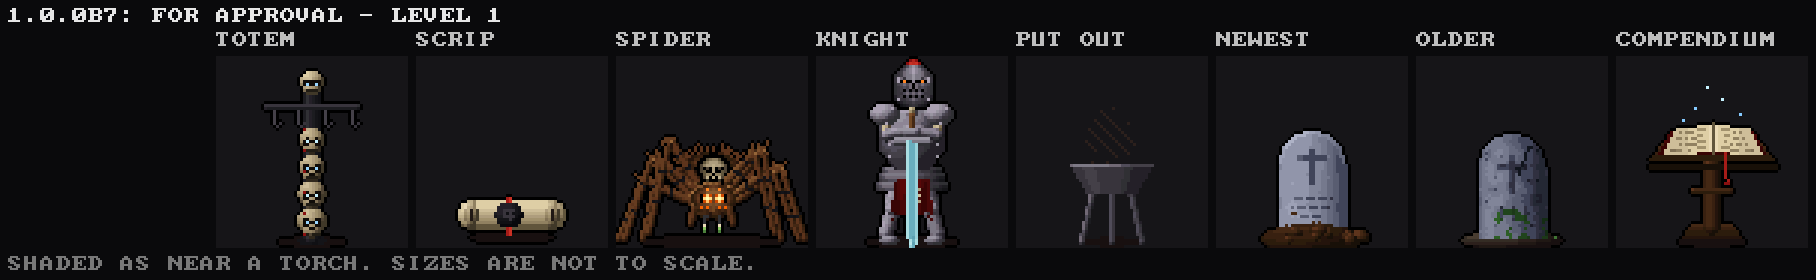
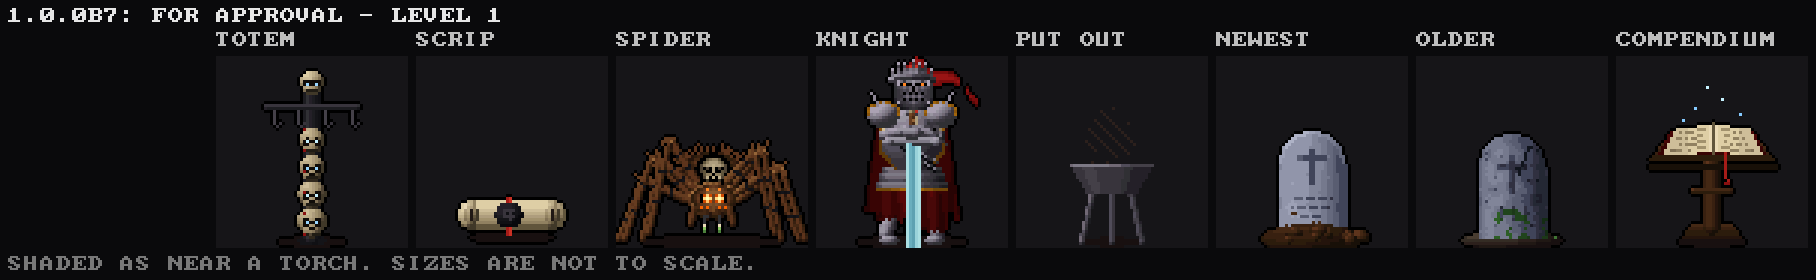
Art pass: the Ill-Fated Knight, a fallen paladin
The owner chose the four bosses' looks (recorded in the plan), and the
knight comes first, with sprites of its own at the end of the list: a
crown of iron spikes about its great helm and a torn crimson plume; the
Order's cross inlaid in bone on the breastplate, its edges once gilt;
chains wound across the plate; a ragged crimson cloak and a long surcoat,
split and torn; spiked pauldrons; a greatsword with a ruby in its pommel.
Shedding plate bares the skeleton, and the helm comes off last: the
crowned skull with a light in its sockets.

For frames, CRAWL_STAGEBOSS=b (stage.py --boss) stands creatures down a
hall drawn as that boss, as in its fight.

Art only: a dream run's events are unchanged; ASan clean.

Claude-Session: https://claude.ai/code/session_015ifzKucNXU48yoPLrSFXC9

Changed region(s): [[0.4626, 0.2, 0.5551, 0.8286], [0.4934, 0.8571, 0.5242, 0.8857]]

diff --git a/src/crawl_art.c b/src/crawl_art.c
@@ -5144,6 +5144,159 @@ static void deacon_dress(int id) {
     }
 }
 
+/* a crown of iron spikes on a band round a brow at (cx, y), hw wide either side; broken: a spike or two snapped */
+static void iron_crown(float cx, float y, float hw, int broken) {
+    for (int x = (int)(cx - hw); x <= (int)(cx + hw); x++) {
+        float u = (x + 0.5f - cx) / hw, by = y + u * u * 1.5f;      /* the band, curving back round the head */
+        cv_px(x, (int)by, sh(R_IRON, 0.62f - 0.3f * u)); cv_px(x, (int)by + 1, sh(R_IRON, 0.3f - 0.12f * u));
+    }
+    for (int k = 0; k < 7; k++) {
+        float u = (k - 3) / 3.0f, x = cx + u * (hw - 1.0f), by = y + u * u * 1.5f;
+        int h = (int)(4.5f - fabsf(u) * 2.0f) - (broken && (k == 1 || k == 5) ? 2 : 0);
+        for (int j = 1; j <= h; j++) cv_px((int)x, (int)by - j, sh(R_IRON, 0.8f - 0.08f * j - 0.2f * (u > 0)));
+        if (h > 0) cv_px((int)x, (int)by - h - 1, sh(R_IRON, 0.95f));   /* its point catching the light */
+    }
+}
+
+/* the greatsword: a long blade with a fuller and a bright edge, a broad guard, a ruby in the pommel */
+static void greatsword(float gx, float gy, float a) {
+    float dx = cosf(a), dy = sinf(a), px = -dy, py = dx;
+    cv_ellipse(gx - dx * 7.0f, gy - dy * 7.0f, 2.2f, 2.2f, R_IRON, 0.4f, 1.0f);   /* pommel, and its ruby */
+    cv_px((int)(gx - dx * 7.0f), (int)(gy - dy * 7.0f), (uint8_t)(R_BLOOD + 13)); cv_px((int)(gx - dx * 7.0f - px), (int)(gy - dy * 7.0f - py), (uint8_t)(R_BLOOD + 10));
+    cv_capsule(gx - dx * 5.0f, gy - dy * 5.0f, gx + dx * 3.0f, gy + dy * 3.0f, 1.3f, R_WOOD, 0.2f, 0.55f);   /* the grip, bound */
+    for (int k = -2; k <= 2; k++) cv_px((int)(gx + dx * k * 1.6f), (int)(gy + dy * k * 1.6f), sh(R_WOOD, 0.75f));
+    cv_capsule(gx + dx * 3.6f - px * 8.0f, gy + dy * 3.6f - py * 8.0f, gx + dx * 3.6f + px * 8.0f, gy + dy * 3.6f + py * 8.0f, 1.2f, R_IRON, 0.35f, 0.95f);
+    cv_ellipse(gx + dx * 3.6f - px * 8.0f, gy + dy * 3.6f - py * 8.0f, 1.6f, 1.6f, R_IRON, 0.5f, 1.0f);   /* the guard's ends */
+    cv_ellipse(gx + dx * 3.6f + px * 8.0f, gy + dy * 3.6f + py * 8.0f, 1.6f, 1.6f, R_IRON, 0.5f, 1.0f);
+    for (int i = 5; i < 50; i++) {                                  /* the blade */
+        float t = (float)i, wdt = i > 43 ? (50 - i) * 0.33f : 2.2f;
+        for (float o = -wdt; o <= wdt; o += 0.5f) {
+            float v = 0.55f + 0.4f * (o / (wdt + 0.01f)) * -0.5f + (fabsf(o) < 0.5f ? -0.18f : 0.0f) + (o > wdt - 0.6f ? 0.35f : 0.0f);
+            cv_px((int)(gx + dx * t + px * o), (int)(gy + dy * t + py * o), sh(R_GHOST, v));
+        }
+    }
+}
+
+/* The Ill-Fated Knight's own (docs/InitialArtPass.md, part three; the owner chose a fallen paladin): the Order's
+ * champion gone to bone in its plate. A tall crested great helm under a crown of iron spikes, a torn crimson plume
+ * streaming from the crest; the Order's cross inlaid on the breastplate, its edges once gilt; chains wound round the
+ * plate; a ragged crimson cloak behind and a long surcoat below, split and torn; a greatsword with a ruby in its pommel.
+ * Shedding plate bares the skeleton, and the helm comes off last, the crown still on the skull and a light in its
+ * sockets. pose 0-1 walking, 2 the wind-up, 3 the blow, 4 planted; state 0 full plate, 1 half, 2 the helm gone. */
+static void spr_bknight(int id, float w, int pose, int state) {
+    cv_begin(cv_sprite, TS, TS);
+    float gx, gy, ga;
+    if (pose == 2) { gx = 41; gy = 11; ga = -2.9f; }
+    else if (pose == 3) { gx = 27; gy = 40; ga = 2.55f; }
+    else if (pose == 4) { gx = 32; gy = 25; ga = 1.5708f; }
+    else { gx = 37; gy = 34; ga = -1.05f; }
+    cv_flat(32, 62, 18, 2.2f, R_WARM + 1);
+    for (int y = 17; y < 61; y++) {                                  /* the cloak, behind it all, ragged */
+        float t = (y - 17) / 43.0f, hw = 10.5f + 6.0f * t;
+        for (int x = (int)(32 - hw); x <= (int)(32 + hw); x++) {
+            float dx = x + 0.5f - 32.0f;
+            float hem = 50.0f + 6.0f * h01((int)(dx + 40) / 2, 1, 601) - (state == 2 ? 8.0f : 0.0f);
+            if (y > hem) continue;
+            float v = 0.1f + 0.14f * (1.0f - fabsf(dx) / hw) + (sinf(dx * 0.9f + y * 0.05f) > 0.7f ? -0.06f : 0.0f);
+            cv_px(x, y, sh(R_BLOOD, v));
+        }
+    }
+    if (pose == 2) greatsword(gx, gy, ga);
+    for (int s = -1; s <= 1; s += 2) {                               /* legs: bone, and plate unless hacked away */
+        float k = s * w, hx = 32 + s * 4.0f, kx = 32 + s * 5.0f - k * 2.5f, fx = 32 + s * 5.5f - k * 4.0f;
+        if (pose == 3 || pose == 4) { kx += s * 1.5f; fx += s * 3.0f; }
+        cv_bone(hx, 41, kx, 51, 1.6f, 0.25f, 0.95f);
+        cv_bone(kx, 51, fx, 60, 1.4f, 0.25f, 0.9f);
+        if (state < 1 || (state < 2 && s > 0)) plate(hx, 42, kx, 50, 3.1f, 0.0f);
+        if (state < 2) { plate(kx, 52, fx, 59, 2.7f, 0.0f); cv_ellipse(kx, 51, 2.8f, 2.4f, R_IRON, 0.4f, 1.0f); cv_px((int)kx, 50, (uint8_t)(R_GOLD + 6)); }   /* poleyn, gilt */
+        if (state < 2) cv_ellipse(fx - s * 1.0f, 61.5f, 3.8f, 1.6f, R_IRON, 0.3f, 0.9f);
+        else cv_capsule(fx, 61.5f, fx - s * 3.5f, 62, 1.0f, R_BONE, 0.3f, 0.8f);
+    }
+    for (int s = -1; s <= 1; s += 2) {                               /* the surcoat below the plate, split before, torn */
+        for (int y = 40; y < 59; y++) {
+            float x0 = 32 + s * 1.0f, x1 = 32 + s * (9.5f + (y - 40) * 0.12f);
+            float hem = 57.0f - 5.0f * h01((int)(y > 0) + (int)fabsf(x1), 3, 603);
+            if (state == 1 && s < 0) hem = 46.0f;                    /* hacked short on the bared side */
+            if (state == 2) hem = 44.0f + 3.0f * (s > 0);
+            for (int x = (int)fminf(x0, x1); x <= (int)fmaxf(x0, x1); x++) {
+                float h = hem + 3.0f * h01(x, 7, 605);
+                if (y > h) continue;
+                float u = fabsf(x + 0.5f - 32.0f) / 10.0f, fold = sinf((x - 32) * 1.1f + s) * 0.06f;
+                cv_px(x, y, sh(R_BLOOD, 0.24f + fold - u * 0.06f - (y - 40) * 0.004f));
+            }
+        }
+    }
+    cv_capsule(32, 18, 32, 40, 1.4f, R_BONE, 0.3f, 0.9f);           /* spine and ribs, where the plate is gone */
+    for (int i = 0; i < 4; i++) {
+        float y = 21 + i * 3.6f;
+        cv_capsule(31, y, 25 + i * 0.6f, y + 2, 0.9f, R_BONE, 0.25f, 0.9f); cv_capsule(33, y, 39 - i * 0.6f, y + 2, 0.9f, R_BONE, 0.25f, 0.9f);
+    }
+    if (state < 2)                                                   /* the fauld, its lowest band gilt */
+        for (int b = 0; b < 3; b++) {
+            float y = 37 + b * 2.6f, hw = 9.5f + b * 0.8f;
+            for (int x = (int)(32 - hw); x <= (int)(32 + hw); x++) {
+                if (state == 1 && x < 28 && b > 0) continue;
+                float nx = (x + 0.5f - 32) / hw;
+                for (int yy = 0; yy < 3; yy++) cv_px(x, (int)y + yy, yy == 2 && b == 2 ? (uint8_t)(R_GOLD + 4 + (int)(3.0f * (1.0f - fabsf(nx)))) : sh(R_IRON, 0.3f + 0.5f * lit(nx, -0.2f, sqrtf(fmaxf(0, 1 - nx * nx))) - yy * 0.08f));
+            }
+        }
+    for (int y = 18; y <= 37; y++) {                                 /* the breastplate: a ridge, the Order's cross, gilt edges */
+        float hw = 9.5f + 1.5f * sinf((y - 18) / 19.0f * PI_F) - (y > 31 ? (y - 31) * 0.6f : 0.0f);
+        for (int x = (int)(32 - hw); x <= (int)(32 + hw); x++) {
+            float nx = (x + 0.5f - 32) / hw;
+            if (state == 2 && (x < 30 - (y - 18) * 0.15f || y > 32)) continue;
+            float v = 0.25f + 0.62f * lit(nx, (y - 26) / 14.0f, sqrtf(fmaxf(0.0f, 1.0f - nx * nx)));
+            if (fabsf(x + 0.5f - 32) < 0.8f) v += 0.25f;
+            if (state >= 1 && h01(x / 2, y / 2, 607) > 0.86f) v -= 0.3f;
+            uint8_t c = sh(R_IRON, v);
+            if (fabsf(fabsf(x + 0.5f - 32) - hw) < 1.0f) c = (uint8_t)(R_GOLD + 3 + (int)(4.0f * (1.0f - fabsf(nx)) + 2.0f * (y < 26)));   /* the gilt, worn */
+            int cross = (abs(x - 32) <= 1 && y >= 20 && y <= 34) || (y >= 24 && y <= 25 && abs(x - 32) <= 5);
+            if (cross && !(state == 2 && x < 31)) c = abs(x - 32) == 0 || y == 24 ? sh(R_BONE, 0.85f) : sh(R_BONE, 0.6f);
+            cv_px(x, y, c);
+        }
+    }
+    if (state == 2) { cv_line(30, 19, 33, 33, sh(R_IRON, 0.05f)); cv_line(34, 22, 37, 30, sh(R_IRON, 0.05f)); }   /* cracked through */
+    if (state < 2)                                                   /* chains wound about it, their shadow on the plate */
+        for (int c = 0; c < 2; c++) {
+            float y0 = c ? 25.0f : 21.0f, y1 = c ? 37.0f : 35.0f, sg = c ? 1.5f : 2.0f;
+            for (int i = 0; i <= 22; i++) { float t = i / 22.0f; cv_px((int)(24.5f + c + 15.0f * t - c), (int)(y0 + (y1 - y0) * t + sg * 4.0f * t * (1.0f - t)) + 1, sh(R_IRON, 0.02f)); }
+            kit_chain(24.0f + c, y0, 40.0f - c, y1, sg, R_IRON);
+        }
+    for (int s = -1; s <= 1; s += 2) {                               /* arms: both hands on the grip */
+        float sx = 32 + s * 9.5f, sy = 20;
+        float ex = (sx + gx) * 0.5f + s * 4.0f, ey = (sy + gy) * 0.5f + 4.0f;
+        if (pose == 2) { ex = (sx + gx) * 0.5f + s * 3.0f; ey = (sy + gy) * 0.5f + 3.0f; }
+        cv_bone(sx, sy, ex, ey, 1.3f, 0.25f, 0.9f);
+        cv_bone(ex, ey, gx + s * 1.0f, gy, 1.1f, 0.25f, 0.9f);
+        int keep = state == 0 || s > 0;
+        if (keep) {                                                  /* a great pauldron, its rim gilt, a spike */
+            cv_ellipse(sx, sy - 0.5f, 5.6f, 4.4f, R_IRON, 0.3f, 1.0f);
+            for (int a = 0; a < 14; a++) { float an = PI_F + a * PI_F / 13.0f; cv_px((int)(sx + cosf(an) * 5.4f), (int)(sy - 0.5f + sinf(an) * 4.2f), (uint8_t)(R_GOLD + 5 + (a & 1))); }
+            cv_line(sx + s * 2.0f, sy - 4.0f, sx + s * 4.0f, sy - 8.0f, sh(R_IRON, 0.8f));
+        }
+        if (state < 2 && (state == 0 || s > 0)) plate(ex, ey, gx + s * 1.0f, gy, 2.1f, 0.05f);   /* vambrace */
+        if (s > 0 && state < 2) kit_chain(ex - 1.0f, ey - 2.0f, ex + 3.0f, ey + 3.0f, 0.5f, R_IRON);   /* a chain about the forearm */
+    }
+    if (pose != 2) greatsword(gx, gy, ga);
+    for (int s = -1; s <= 1; s += 2) cv_ellipse(gx + s * 1.2f, gy + 0.5f, 2.3f, 2.1f, state < 2 ? R_IRON : R_BONE, 0.3f, 0.9f);   /* gauntlets, or bone */
+    cv_capsule(32, 15, 32, 18, 1.2f, R_BONE, 0.3f, 0.9f);
+    if (state < 2) {                                                 /* the plume, torn, streaming from the crest; the helm; its crown */
+        for (int k = 0; k < 30; k++) {
+            float t = k / 29.0f, px = 33.0f + t * 20.0f, py = 2.0f + t * 12.0f + sinf(t * 7.0f) * 2.0f, wdt = 2.8f - t * 1.8f;
+            if (k > 18 && h01(k, 1, 609) < 0.4f) continue;           /* torn at its end */
+            for (float o = -wdt; o <= wdt; o += 0.5f) cv_px((int)px, (int)(py + o), sh(R_BLOOD, 0.35f + 0.25f * (1.0f - fabsf(o) / (wdt + 0.01f)) - t * 0.15f));
+        }
+        grid_stamp(KNIGHT_HELM, 15, 16, 25, 2, R_IRON, R_BLOOD, (uint8_t)(R_FLAME + 9), 0);
+        iron_crown(32, 6, 7.5f, state == 1);
+    } else {                                                         /* the helm gone: the crowned skull, a light in it */
+        skull_stamp(32, 10, 0, 0, (uint8_t)(R_FLAME + 12));
+        iron_crown(32, 4, 7.0f, 1);
+    }
+    cv_bone_decay(611);
+    cv_outline(0);
+    cv_store(id);
+}
+
 /* the bestiary's bones age with the level, like the skeletons' */
 static void spr_bestiary_bones(void) {
     spr_hound(SP_HOUND_A, 1.0f, 0); spr_hound(SP_HOUND_B, -1.0f, 1); spr_hound(SP_HOUND_BITE, 0.0f, 2); spr_hound(SP_HOUND_D, 0.0f, 3);
@@ -5155,6 +5308,11 @@ static void spr_bestiary_bones(void) {
         spr_knight(SP_KNIGHT_P0 + st, 0.0f, 4, st);
     }
     spr_knight_dead(SP_KNIGHT_D);
+    for (int st = 0; st < 3; st++) {                                /* the Ill-Fated Knight's own */
+        int base = SP_BKNIGHT_A + st * 4;
+        spr_bknight(base, 1.0f, 0, st); spr_bknight(base + 1, -1.0f, 1, st); spr_bknight(base + 2, 0.0f, 2, st); spr_bknight(base + 3, 0.0f, 3, st);
+        spr_bknight(SP_BKNIGHT_P0 + st, 0.0f, 4, st);
+    }
     spr_deacon(SP_DEACON_A, 1.0f, 0); spr_deacon(SP_DEACON_B, -1.0f, 1); spr_deacon(SP_DEACON_CHANT, 0.0f, 2); spr_deacon(SP_DEACON_D, 0.0f, 3);
     deacon_dress(SP_DEACON_A); deacon_dress(SP_DEACON_B); deacon_dress(SP_DEACON_CHANT);
 }

diff --git a/src/scene_crawl.c b/src/scene_crawl.c
@@ -2795,7 +2795,8 @@ static void build_lightmap(void) {
 #ifdef CRAWL_DEBUG
 /* CRAWL_STAGE=k: one kind stood still down the longest straight hall, at set distances, the caster still and looking
  * at them; CRAWL_STAGEDARK=f scales the light (0 none), CRAWL_STAGEFOG=1 thickens the fog to its most, CRAWL_STAGESUB=s
- * puts them in that state, CRAWL_STAGEDIST=d just one at d cells. For frames of the art pass (docs/InitialArtPass.md). */
+ * puts them in that state, CRAWL_STAGEDIST=d just one at d cells, CRAWL_STAGEBOSS=b each drawn as that boss (BOSS_*, of its
+ * kind). For frames of the art pass (docs/InitialArtPass.md). */
 static int g_stage = -1, g_stage_fog;
 static float g_stage_lm = 1.0f;
 #endif
@@ -13228,6 +13229,7 @@ static void stage_set(int k) {                                     /* CRAWL_STAG
         if (k == MOB_GARGOYLE) m->sub = 2;
         if (k == MOB_HUNTER) m->sub = 2;
         if (getenv("CRAWL_STAGESUB")) m->sub = atoi(getenv("CRAWL_STAGESUB"));
+        if (getenv("CRAWL_STAGEBOSS")) m->boss = (uint8_t)(1 + atoi(getenv("CRAWL_STAGEBOSS")));   /* drawn as that boss, for its frames */
     }
     if (getenv("CRAWL_STAGEDARK")) g_stage_lm = (float)atof(getenv("CRAWL_STAGEDARK"));
     g_stage_fog = getenv("CRAWL_STAGEFOG") != NULL;
@@ -18432,9 +18434,9 @@ static int mob_sprite(const Mob *m, float *scale) {
         return m->sub == 3 ? SP_GHOUL_LEAP : (m->sub == 4 ? SP_GHOUL_FEED : (fr ? SP_GHOUL_B : SP_GHOUL_A));
     case MOB_KNIGHT: {
         if (m->state == MS_DIE) return SP_KNIGHT_D;
-        int base = SP_KNIGHT_A + knight_stage(m) * 4;
+        int base = (m->boss ? SP_BKNIGHT_A : SP_KNIGHT_A) + knight_stage(m) * 4;   /* the Ill-Fated Knight has its own */
         if (m->boss && G.bpose_t > 0.0f && G.bpose != BP_NONE && m->state == MS_WALK)   /* the Ill-Fated Knight casting */
-            return G.bpose == BP_PLANT ? SP_KNIGHT_P0 + knight_stage(m) : base + (G.bpose == BP_RAISE ? 2 : 3);
+            return G.bpose == BP_PLANT ? SP_BKNIGHT_P0 + knight_stage(m) : base + (G.bpose == BP_RAISE ? 2 : 3);
         return base + (m->swing > 0.0f ? 2 : (m->throw_t > 0.0f ? 3 : fr));
     }
     case MOB_BROOD:
@@ -18599,7 +18601,11 @@ static void render_sprites(Frame *f, float dx, float dy, float horizon) {
         if (n == n0) continue;
         Draw *d = &list[n - 1];
         d->scale = statue ? 1.0f : sc * RANK_SIZE[m->rank];       /* a statue like the others: its rank doesn't show yet */
-        if (m->boss) { d->scale *= BOSSES[m->boss - 1].scale; if (G.bstate != BS_FIGHT && m->state == MS_WALK) d->flags |= DR_EDGE; }   /* untouchable: a pale shell */
+        int waits = m->boss && G.bstate != BS_FIGHT && m->state == MS_WALK;   /* untouchable: a pale shell */
+#ifdef CRAWL_DEBUG
+        if (g_stage >= 0) waits = 0;                                /* a boss stood for its frames shows as in the fight */
+#endif
+        if (m->boss) { d->scale *= BOSSES[m->boss - 1].scale; if (waits) d->flags |= DR_EDGE; }
         if (m->small) d->scale *= 0.62f;
         if (m->rank != RK_I && KINDS[m->type].family >= 0 && !statue) d->lut = crawl_rank_lut[KINDS[m->type].family][m->rank];
         if (m->type == MOB_SPIDER && m->state == MS_WALK && m->sub == 0) d->flags = DR_EYES;
@@ -18607,7 +18613,7 @@ static void render_sprites(Frame *f, float dx, float dy, float horizon) {
         if (m->frozen > 0.0f && m->state == MS_WALK) d->flags |= DR_ICE;   /* only its eyes, in the dark of the web */
         if (G.ptheme == PT_BACKROOMS) d->flags |= DR_GLITCH;           /* nothing here is quite right */
         if (G.ptheme == PT_SEVERANCE) d->flags |= DR_LIT;              /* nor here: everything is too clean */
-        if (m->boss && G.bstate != BS_FIGHT && m->state == MS_WALK) d->flags |= DR_EDGE;
+        if (waits) d->flags |= DR_EDGE;
         if (m->boss == 1 + BOSS_KNIGHT && m->state == MS_WALK) {
             d->flags |= DR_SHINE;
             if (G.bdash_age < 0.8f) {                              /* Swift Dodge: where it was a moment ago, fading */

diff --git a/tools/sheet.c b/tools/sheet.c
@@ -57,6 +57,9 @@ static const Group GROUPS[] = {
     { "knight", "SKELETON KNIGHT (FROM LEVEL 13)", PF_ARMOUR, ALL_RANKS,
       { { SP_KNIGHT_A, "WALK" }, { SP_KNIGHT_W, "WIND-UP" }, { SP_KNIGHT_S, "STRIKE" }, { SP_KNIGHT2_A, "HALF PLATE" }, { SP_KNIGHT2_W, "WIND-UP" },
         { SP_KNIGHT3_A, "STRIPPED" }, { SP_KNIGHT3_S, "STRIKE" }, { SP_KNIGHT_D, "DEAD" }, { -1, 0 } } },
+    { "bknight", "THE ILL-FATED KNIGHT (THE BOSS OF LEVEL 10): FULL, HALF, HELM GONE", -1, 1,
+      { { SP_BKNIGHT_A, "WALK" }, { SP_BKNIGHT_W, "WIND-UP" }, { SP_BKNIGHT_S, "STRIKE" }, { SP_BKNIGHT_P0, "PLANTED" },
+        { SP_BKNIGHT2_A, "HALF" }, { SP_BKNIGHT2_W, "WIND-UP" }, { SP_BKNIGHT3_A, "HELM GONE" }, { SP_BKNIGHT3_S, "STRIKE" }, { SP_BKNIGHT_P2, "PLANTED" }, { -1, 0 } } },
     { "deacon", "DEACON (FROM LEVEL 18)", PF_ROBE, ALL_RANKS,
       { { SP_DEACON_A, "WALK A" }, { SP_DEACON_B, "WALK B" }, { SP_DEACON_CHANT, "RAISING" }, { SP_DEACON_D, "DEAD" }, { -1, 0 } } },
     { "hunter", "HUNTING SPIDER (FROM LEVEL 11)", PF_HIDE, ALL_RANKS,
@@ -98,7 +101,7 @@ static const Group GROUPS[] = {
     { "b6", "1.0.0B6: FOR APPROVAL", -1, 1,
       { { SP_DOUBLE, "BLINK'S DOUBLE" }, { -1, 0 } } },
     { "b7", "1.0.0B7: FOR APPROVAL", -1, 1,
-      { { SP_HEXTOTEM, "TOTEM" }, { SP_SCRIP, "SCRIP" }, { SP_BSPIDER_A, "SPIDER" }, { SP_KNIGHT_P0, "KNIGHT" },
+      { { SP_HEXTOTEM, "TOTEM" }, { SP_SCRIP, "SCRIP" }, { SP_BSPIDER_A, "SPIDER" }, { SP_BKNIGHT_P0, "KNIGHT" },
         { SP_BRAZIER_OUT, "PUT OUT" }, { SP_TOMB_FRESH, "NEWEST" }, { SP_TOMB_ROUND, "OLDER" }, { SP_LECTERN, "COMPENDIUM" }, { -1, 0 } } },
 };
 #define NGROUPS ((int)(sizeof GROUPS / sizeof GROUPS[0]))

diff --git a/tools/stage.py b/tools/stage.py
@@ -13,6 +13,7 @@ ap.add_argument("kind", type=int); ap.add_argument("out")
 ap.add_argument("--rank"); ap.add_argument("--level", default="5"); ap.add_argument("--seed", default="5")
 ap.add_argument("--dark"); ap.add_argument("--fog", action="store_true"); ap.add_argument("--sub")
 ap.add_argument("--dists", default="2.5,4,6,9,13,18"); ap.add_argument("--t", default="6")
+ap.add_argument("--boss")                                   # the BOSS_* number: drawn as that boss
 a = ap.parse_args()
 host = os.path.join(os.path.dirname(os.path.abspath(__file__)), "..", "build", "host_debug")
 frames = []
@@ -23,6 +24,7 @@ with tempfile.TemporaryDirectory() as d:
         if a.dark is not None: env["CRAWL_STAGEDARK"] = a.dark
         if a.fog: env["CRAWL_STAGEFOG"] = "1"
         if a.sub is not None: env["CRAWL_STAGESUB"] = a.sub
+        if a.boss is not None: env["CRAWL_STAGEBOSS"] = a.boss
         subprocess.run([host, "shot", "crawl", a.t, os.path.join(d, "f%d" % i), "2"], env=env, cwd=d,
                        stdout=subprocess.DEVNULL, stderr=subprocess.DEVNULL, check=True)
         name = [f for f in os.listdir(d) if f.startswith("f%d_" % i)][0]

diff --git a/src/crawl.h b/src/crawl.h
@@ -251,6 +251,11 @@ enum {
     SP_SHAMB_SA, SP_SHAMB_SB, SP_DROWN_SA, SP_DROWN_SB, SP_HOUND_SA, SP_HOUND_SB, SP_WRAITH_SA, SP_WRAITH_SB,
     SP_HUNTER_SA, SP_HUNTER_SB, SP_GHOUL_SA, SP_GHOUL_SB, SP_KNIGHT_SA, SP_KNIGHT_SB, SP_BROOD_SA, SP_BROOD_SB,
     SP_SHADE_SA, SP_SHADE_SB, SP_IMP_SA, SP_IMP_SB, SP_DEACON_SA, SP_DEACON_SB, SP_GARG_SA, SP_GARG_SB,
+    /* the bosses' own (docs/InitialArtPass.md, part three) */
+    SP_BKNIGHT_A, SP_BKNIGHT_B, SP_BKNIGHT_W, SP_BKNIGHT_S,     /* the Ill-Fated Knight, a fallen paladin: in full plate, */
+    SP_BKNIGHT2_A, SP_BKNIGHT2_B, SP_BKNIGHT2_W, SP_BKNIGHT2_S, /* ... half of it hacked off, */
+    SP_BKNIGHT3_A, SP_BKNIGHT3_B, SP_BKNIGHT3_W, SP_BKNIGHT3_S, /* ... the breastplate cracked and the helm gone */
+    SP_BKNIGHT_P0, SP_BKNIGHT_P1, SP_BKNIGHT_P2,                /* planting its sword, in each state */
     NSPR
 };
 

diff --git a/docs/InitialArtPass.md b/docs/InitialArtPass.md
@@ -21,7 +21,17 @@ follow are read in its light (the differences are in bold).
 - **A1** (b): every skull the game draws: the wall skull creature, the piles, heaps, totems, niches and the ossuary's
   bone walls.
 - **A2 (c): all four bosses get bespoke redraws in this pass**, not only the Deacon and the Wraith; their new art is
-  drawn after their kind's own (section 9).
+  drawn after their kind's own (section 9). Their looks, asked when part three began (31 October), each the recommended
+  one: **the Ill-Fated Knight a fallen paladin** (a tall crested great helm under a crown of iron spikes, a torn crimson
+  plume, a long tattered surcoat with the Order's cross, chains wound round its plate, a two-handed greatsword; shedding
+  plate bares the skeleton, and the helm comes off last to show its skull with a light in it); **the Wandering Spider an
+  old matriarch** (huge and grizzled: grey-white hair, a cluster of milky blind eyes round two great burning ones, a
+  scarred shell, spurred legs, torn web trailing with husks of prey in it, the skull on its back in raised bone); **the
+  Black Deacon a profane bishop** (towering, in black and crimson vestments with a tall mitre, a skull face lit green from
+  below, a crozier crowned with a skull and hung with chains, a censer swinging green smoke, its bone ward wheeling about
+  it); **the Wraith Unbound crowned and unchained** (a broken iron crown over its peaked hood, burst shackles with chains
+  trailing from its wrists, its cerements flaring wider into a storm of wisps, a second pair of long hands reaching from
+  inside its robe).
 - **A3** (a): no dressing by run in this pass; the kit and the table of points are built so it can come later.
 - **A4 (c): every creature is re-proportioned**, not only the Drowned, the imp and the gargoyle. The skeletons' bone
   work (the owner's "pretty good") is kept in spirit: limbs may lengthen and the stance change, but the bones are drawn
@@ -748,7 +758,8 @@ of usage leaves the next one a true account. **Read it before anything else in t
 | 20. The hunting spider | done, for the owner's eye | `HUNTER_HEAD` (15 by 10), `hunter_abdomen` (mark: chevrons, the skull, or plain), `spr_hunter(id, frame, marked)`, `hunter_dress`, `spider_side` in `src/crawl_art.c`; `chitin_leg` bands dark in a band ramp; the Wandering Spider is now `spr_hunter(SP_BSPIDER_*, f, 1)`, its skull drawn from `SKULL_SMALL` on a dark oval where the stamp of fixed pixels was; review `docs/artpass/review/hunter.png`, `hunter_game.png` (ranks I and V down at 1.8 and 5 cells, then on the ceiling), `sides3.png`, `b7.png` (the boss) | a wolf spider's face by hand: two great eyes shining in front, rounded, two above, a row of four small below; fur on its fore-body, palps, jaws' bulges and dark fangs each with a green drop; the abdomen furred in strokes, a dark stripe and chevrons, bristles round its rim; legs banded dark and bristling at the knee. Ranks: II silk and mould, III frost and its back cracked, IV old blood on the fangs and a bald scar torn in its fur, V charred and the pale skull on its back, gilded gold in its fur. Its side view (shared with the brood mother, whose side view changes with it: pitted, its eggs and red mark kept) has its fur, banded legs and one great eye drawn over the near legs. The drops' white glint is gone, here and on the web spider: on the ceiling, in the dark, the pair read as a second pair of eyes. Events unchanged, ASan clean (staged at three ranks, four met a level for a minute, a minute of level 20's fight, all drawn every frame) |
 | 21. The brood mother, spiderling and egg sac | done, for the owner's eye | `brood_abdomen`, `spr_brood`, `brood_dress`, `spr_sac`, `spr_ling` in `src/crawl_art.c` (the old `spider_leg` gone; `g_dress_ramp3` and `dress_on` let a dressing lie on a third ramp); review `docs/artpass/review/brood.png`, `brood_game.png` (the mother at ranks I and V at 2.2 and 5 cells, spiderlings, a sac), `sides3.png` | the mother is the web spider's kind at the size of a dog: her abdomen the pitted shell stretched over sixteen eggs pressing pale through the skin, each with the skin drawn dark under it, veins of blood running between them, her hourglass at the front; the eight eyes, pale fangs with venom, thick banded legs bristling at the knee. Laying, a sac wound in silk comes down on its thread before her jaws; dead, she lies on her back with her legs curled over her. Ranks: II silk and mould, III frost and her shell cracked, IV old blood on her fangs and an egg burst with its yolk run, V charred and the pale skull on her back (over her mark and her eggs), gilded gold in her bands. The sac is wound strand on strand, the young pressed dark against it inside; stirring, their legs at the silk and a few eyes catching; hatched, its lips torn outwards and strands trailing. The spiderling: banded knees, a small hourglass, its two great eyes and small ones beside them, fine fang tips. Her side view was reworked in unit 20. Events unchanged, ASan clean (each staged at two ranks, three mothers a level for a minute and a half drawn every frame) |
 | 22. The shade | done, a check | nothing changed: `spr_shade` and `spr_shade_side` as they were (its sheet is the same, pixel for pixel, as `docs/artpass/before/shade.png`); review `docs/artpass/review/shade_game.png` (lit, at half the light, and at a seventh, each at 1.8 and 4 cells) | the exception holds: the eye pass leaves the shade out (`render_sprites` sets no `d->eye` for `MOB_SHADE`), so its eyes are its sprite's own two dim ones, drawn as faintly as `shade_alpha` shows the rest of it. Lit, a dark shape with its violet edge and its eyes; at half the light, faint and see-through; in the dark, nothing, eyes and all (it is not drawn under an alpha of 0.04, and shows for a moment after its touch, as it always did). No rank, no dressing, no vapour. ASan clean (staged lit and dark) |
-| 23. The Ill-Fated Knight | next | the knight boss's sprites (`SP_KNIGHT*` and the planted poses `SP_KNIGHT_P0..2`, drawn `DR_SHINE` at the boss's scale); a bespoke set would want its own `SP_*` and `mob_sprite`'s boss case | A2 (c): a bespoke redraw after its kind's own (unit 14). Its three stages (full plate, half, the breastplate gone) and its planted pose; the owner to be asked for the look first (big work, and the plan's brief is thin) |
+| 23. The Ill-Fated Knight | done, for the owner's eye | its own sprites at the end of the list (`SP_BKNIGHT_A` .. `SP_BKNIGHT3_S`, `SP_BKNIGHT_P0..2`, so no number moved); `iron_crown`, `greatsword`, `spr_bknight` in `src/crawl_art.c`; `mob_sprite` takes them for the boss (`SP_KNIGHT_P0..2` are no longer drawn in play); `CRAWL_STAGEBOSS=b` (`tools/stage.py --boss b`) draws staged creatures as that boss, shell and all left off; review `docs/artpass/review/bknight.png`, `bknight_game.png` (seeds 13 and 11 at 3 and 6, 3.5 and 7 cells), `b7.png` | the owner's fallen paladin: a crown of iron spikes about the great helm (a spike or two snapped at half plate), a torn crimson plume streaming from its crest; the Order's cross inlaid in bone on the breastplate, its edges and the fauld's lowest band and the pauldrons' rims once gilt, now worn; chains wound across the plate (their shadow on it) and one about the forearm; a ragged crimson cloak behind and a long crimson surcoat below, split before and torn; great spiked pauldrons; a greatsword with a broad guard, a bound grip and a ruby in its pommel. At half plate its left side is bared and the surcoat hacked short there; with the helm gone, the crowned skull with a light in its sockets, the breastplate cracked through. Drawn `DR_SHINE` as before. No side views (the bosses' bestiary pages are 1.0.0b7's leftovers). Events unchanged, ASan clean (staged as the boss, and four minutes of level 10 into the fight, drawn every frame) |
+| 24. The Wandering Spider | next | `spr_hunter(SP_BSPIDER_*, f, 1)` today; its own function | the owner's old matriarch (see *Decided*, A2): huge and grizzled, grey-white hair, milky blind eyes round two great burning ones, a scarred shell, spurred legs, torn web trailing with husks of prey, the skull on its back in raised bone; its leap and its time overhead (`sub` 0 and 5) |
 
 ### How to pick it up
 
@@ -784,10 +795,12 @@ of usage leaves the next one a true account. **Read it before anything else in t
      a `git worktree`.
    - The settings dialog is in `src/win_main.c`, which only CI can compile here (no mingw in the container); push and
      read the build's result before calling the setting done.
-8. The hand's frames are bent from `crawl_hand_img` by the axes in `HAND_AXIS` (knuckle to tip through each finger's
+8. A boss's frames: `tools/stage.py <its kind's MOB_*> out.png --boss <BOSS_*> --level n` stands it down a hall as in its
+   fight (the knight 12 and 0, the spider 10 and 1, the deacon 18 and 2, the Wraith 9 and 3).
+9. The hand's frames are bent from `crawl_hand_img` by the axes in `HAND_AXIS` (knuckle to tip through each finger's
    middle, fitted to the traced hand): if the hand is ever traced again, fit them again, or the bends will tear it.
    `CRAWL_HANDFRAME=k` (with `CRAWL_SHOWHAND=0`) holds frame k on screen; `CRAWL_STAGE` now lets a person who has taken
    over act (the creatures stay still), so a cast can be filmed on the stage.
-9. A sprite's eyes are wherever its function calls `cv_eye` (or `cv_eye_mark` for an eye drawn as a shape); a redrawn
+10. A sprite's eyes are wherever its function calls `cv_eye` (or `cv_eye_mark` for an eye drawn as a shape); a redrawn
    creature must call it for each eye, in each pose that has them open, or it will lose its eyes in the game.
 
